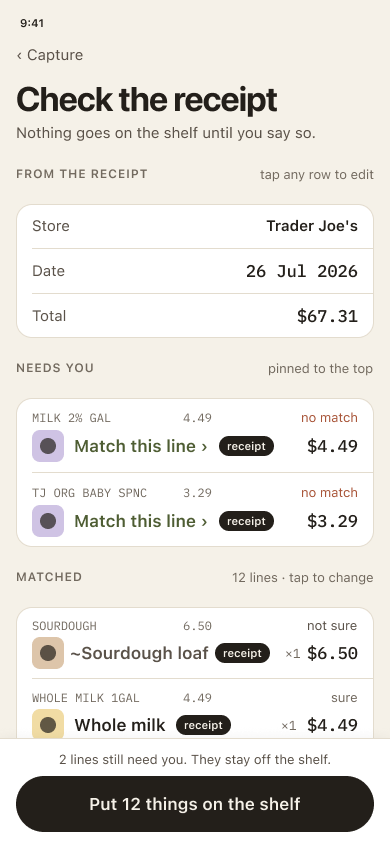
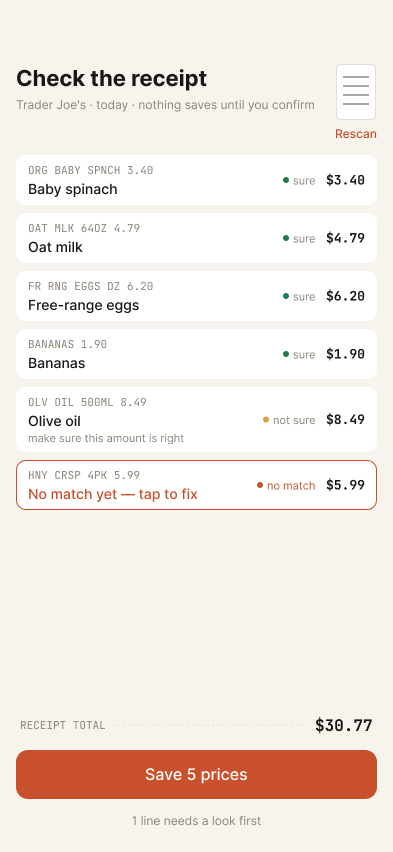
One style for the entire app — decided; final renders exported
No appearance variants: the warm-paper look is the app's single appearance
under every system setting. The two dark frames on the Figma page are
demoted to exploration. design/app/ now holds the 29 final renders from the
canonical page (was: stale pre-cut renders of the old 59-screen spec).

Claude-Session: https://claude.ai/code/session_01A8rNZTtwV3z7PEHs5sXCz9

diff --git a/design/app/README.md b/design/app/README.md
@@ -1,29 +1,11 @@
-# Our screens, rendered
+# The final screens — Bagged v1
 
-All 28 v1 surfaces (`docs/V1_SCOPE.md`) exported from the Figma spec page
-`74:16 · Bagged · Screens` (file `Lpx5Pdgvy3Gx8l5ZSDS0JH`), 390×844.
+All 29 frames of the settled product (28 surfaces + `01b` at 40 items), exported from the
+canonical Figma page `138:978 · Bagged · Screens app current`. These ARE the result — the
+post-cut scope, three tabs, one style.
 
-Numbering matches `design/references/` — the Mobbin top-3 for screen `NN` lives in
-`design/references/NN-slug/`.
+**One style for the entire app** (`PRODUCT.md` §2): no light/dark variants. Warm paper,
+persimmon action, mono prices, line-icon glyphs on aisle tints.
 
-⚠ These renders predate the Shelf cut: some screens still show shelf copy
-("Put 12 things on the shelf") and a 4-tab bar. `27-first-receipt.png` is the old
-`A5 · First fill` — the closest existing design to the First-receipt sheet.
-The Figma file needs a pass to retire the Shelf before these are re-exported.
-
-| # | Screen | # | Screen |
-|---|---|---|---|
-| 01 | List | 15 | Data & privacy |
-| 02 | Item detail + set price | 16 | About |
-| 03 | Aisle order editor | 17 | Name your kitchen |
-| 04 | Receipt review | 18 | Add your first shop |
-| 05 | Unmatched line resolver | 19 | Sign in / restore |
-| 06 | Capture result | 20 | Capture chooser |
-| 07 | Enter by hand | 21 | Receipt camera |
-| 08 | Prices | 22 | Barcode scanner |
-| 09 | Item price history | 23 | Add item |
-| 10 | Month / spend | 24 | Shop switcher |
-| 11 | Kitchen | 25 | Invite |
-| 12 | Places | 26 | Paywall |
-| 13 | Add / edit a shop | 27 | First receipt |
-| 14 | Setup | 28 | Widget |
+Numbering matches `design/references/` — the top-3 shipped-app references for screen `NN`
+live in `design/references/NN-slug/`.

diff --git a/PRODUCT.md b/PRODUCT.md
@@ -67,8 +67,13 @@ type: system sans (SF Pro) everywhere EXCEPT prices —
       prices & totals are MONOSPACE, tabular numerals, always
 ```
 
-`BRAND.md` §5's older token values are **deprecated**. Dark mode ships at launch, driven by the
-variable collection (proven by mode-switch on `01 List — dark` and `10 Month / spend — dark`).
+`BRAND.md` §5's older token values are **deprecated**.
+
+**One style for the entire app — decided (Aug 2026).** There are no appearance variants: no
+light/dark modes, no themes. The warm-paper look above is the app's single appearance under
+every system setting — the brand *is* the look, the way a printed receipt has one look. The two
+dark frames on the Figma page are kept as exploration only; they are not product. (This also
+deletes a whole class of work: every screen designed once, tested once, maintained once.)
 **Grey estimate text must be contrast-verified at 4.5:1 — verified, not assumed — before build.**
 
 - **Why warm paper wins:** the category is cool-toned (AnyList blue-grey, OurGroceries grey,
@@ -191,7 +196,8 @@ the job).
 - **7 states:** Empty list · All done · Offline · Scan failed · Processing · Camera primer ·
   Location primer
 - **1 target:** Widget extension (lock + home screen)
-- **2 dark proofs:** `01 List — dark`, `10 Month / spend — dark`
+
+*(The page also holds two dark-variant frames — exploration only. One style ships; see §2.)*
 
 **Navigation: three tabs + one action.** `List · Prices · You`, persimmon `+` for capture.
 Every screen has its top-3 shipped-app references in `design/references/` (28/28 complete).

diff --git a/docs/V1_SCOPE.md b/docs/V1_SCOPE.md
@@ -106,7 +106,7 @@ Amazon Fresh's shopping list.
 - Home-screen widget
 - **Siri** — add · what's left · read my list aloud
 - Shortcuts, Action Button, Control Center *(all from the same App Intents)*
-- Dark mode
+- One appearance — the same warm paper under every system setting (no light/dark variants)
 - Dynamic Type, VoiceOver, Reduce Motion
 - Haptics on every state change
 - Sound on by default — two sounds, quiet, silent-switch respected
